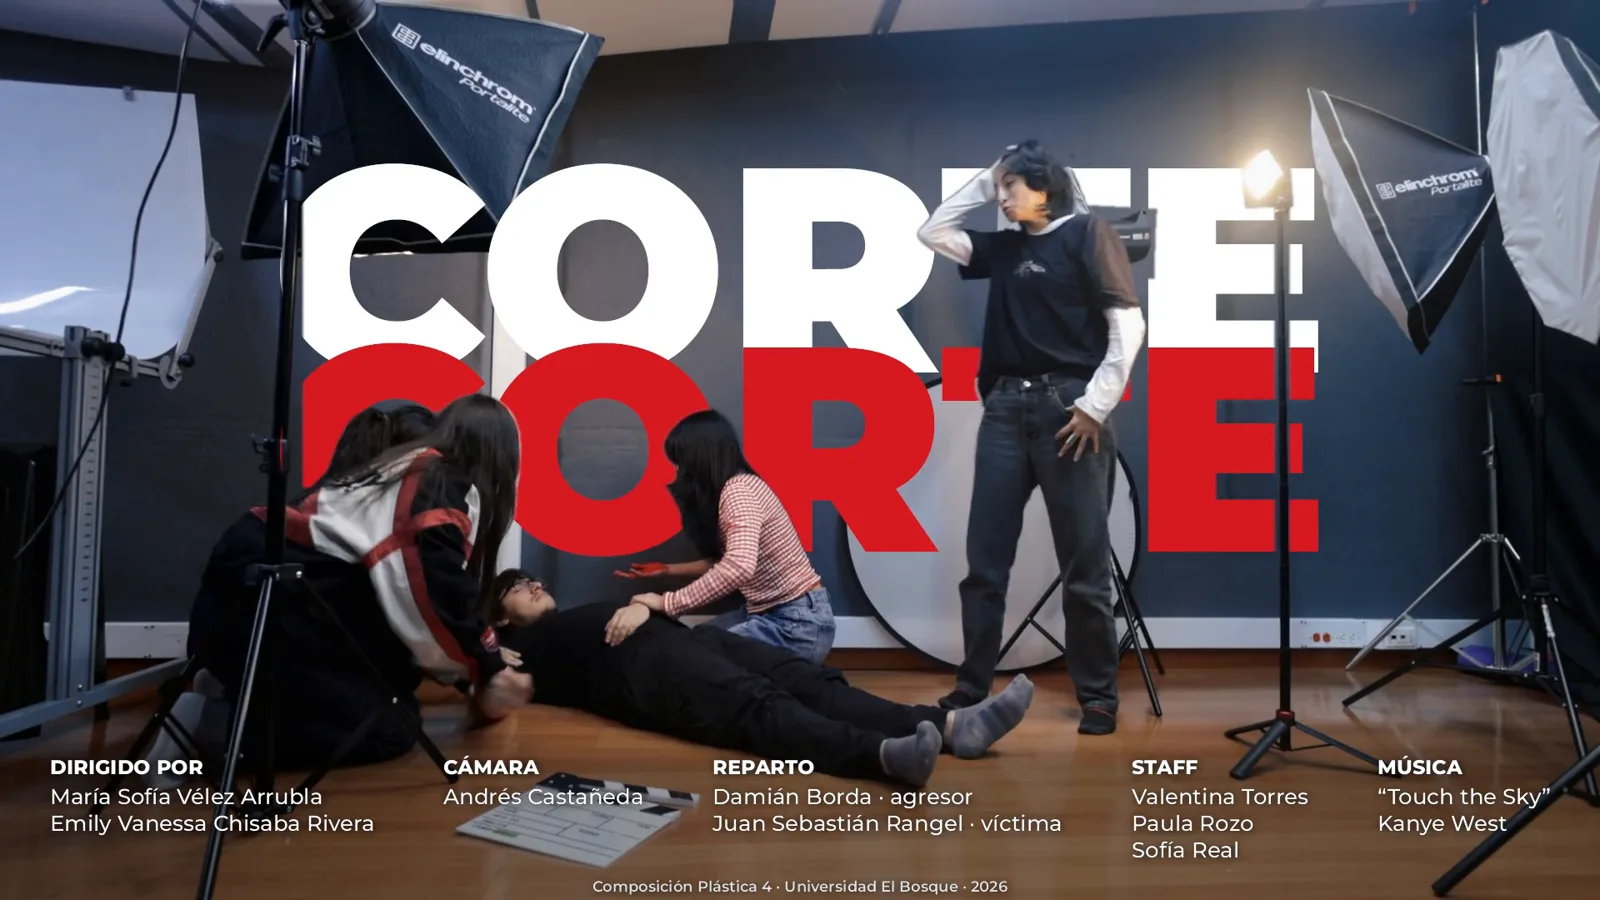
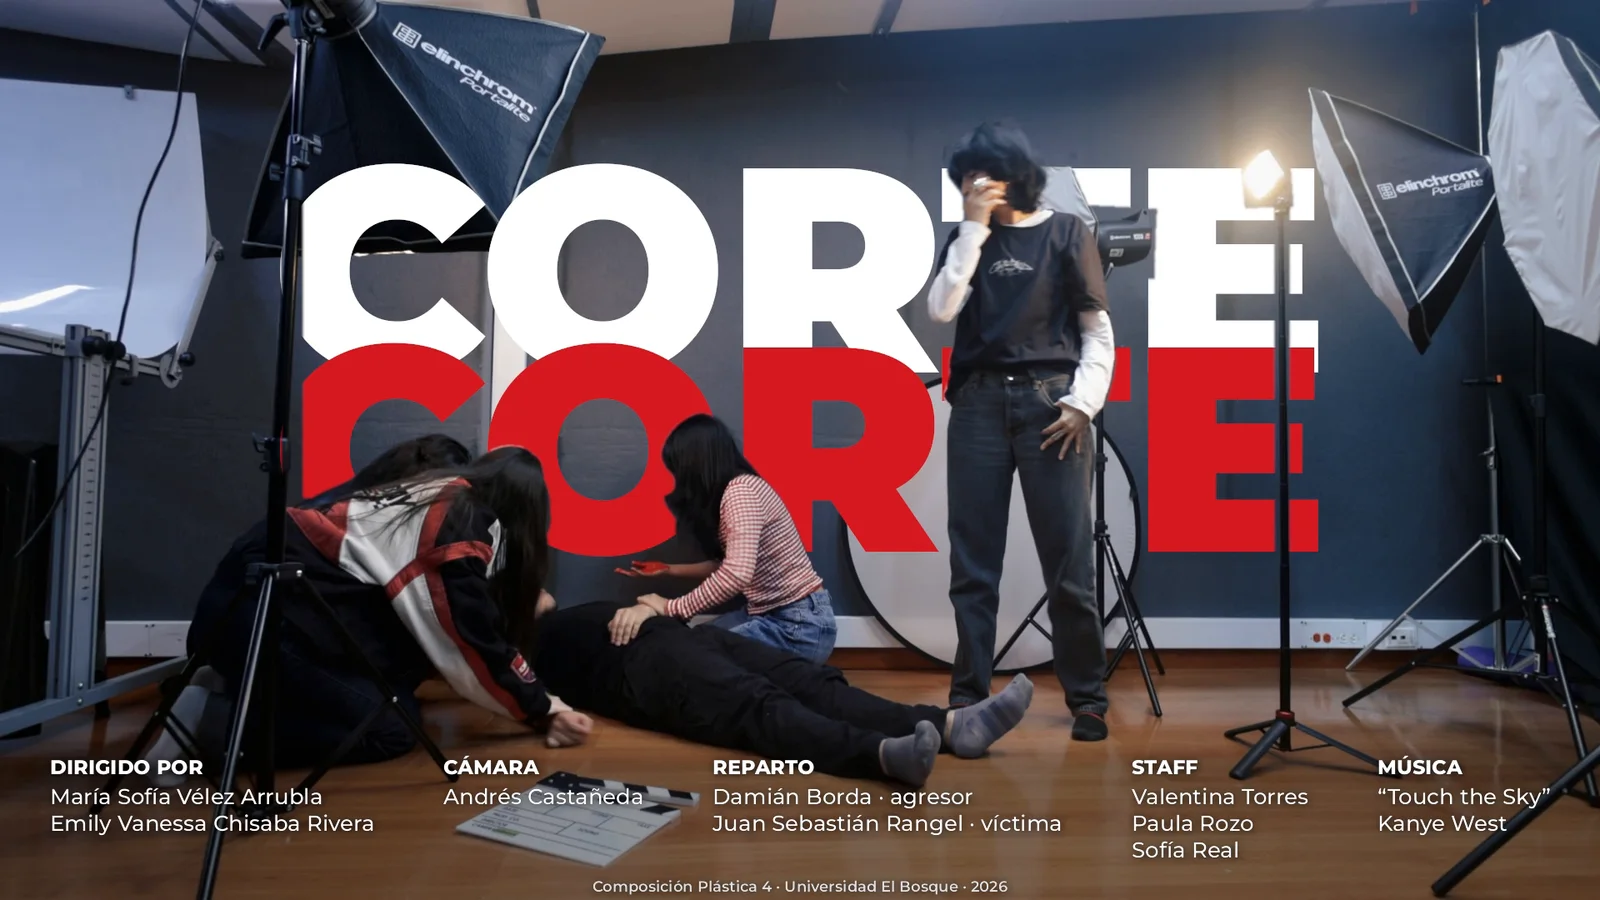
Créditos en cada proyecto y portada de Cut! en el segundo 11
Claude-Session: https://claude.ai/code/session_01RyYnNCt1wu5NE3TrN3pCe1

diff --git a/src/data/contenido.js b/src/data/contenido.js
@@ -131,6 +131,9 @@ export const OBRAS = [
     portada: M + "medea/busto.webp",
     tono: "#24103c",
     especial: "medea", // su página usa la sección con turntable y comparador
+    creditos: [
+      { rol: "Vestuario base", nombres: ["Generado con Hunyuan3D (Tencent)"] },
+    ],
     secciones: [{ tipo: "medea" }],
   },
   {
@@ -145,6 +148,10 @@ export const OBRAS = [
       "Vex es el protagonista de NEXO: un desarrollador de inteligencia artificial, brillante, obsesivo y ansioso. Es completamente gris y su look es pintado a mano, con sombras escalonadas y trama de semitono, en la línea de Spider-Verse. La ropa se generó con IA y después se adaptó al personaje.",
     portada: M + "vex/busto.webp",
     tono: "#141a33",
+    creditos: [
+      { rol: "Proyecto", nombres: ["NEXO, semillero Gráfica Dinámica, Universidad El Bosque"] },
+      { rol: "Ropa", nombres: ["Generada con IA"] },
+    ],
     secciones: [
       { tipo: "medea", personaje: "VEX" },
       { tipo: "galeria", titulo: "En Blender", imagenes: [M + "vex/rostro.webp", M + "vex/ropa.webp", M + "vex/captura_cuerpo.webp"] },
@@ -220,6 +227,11 @@ export const OBRAS = [
     portada: M + "tour/inicio.webp", // pantalla de inicio de la app (no la pieza gráfica)
     enlace: { texto: "Probar la app en la web", url: "https://madebylych.github.io/tour-usaquen/" },
     tono: "#3a1a08",
+    creditos: [
+      { rol: "Equipo", nombres: ["Juan David Montoya Gallego (Formación Musical)", "Juan David Neira Lopez (Formación Musical)", "Oscar Fabian Pachon Beltran (Formación Musical)", "Manuela Guerrero Alvarez (Arquitectura)"] },
+      { rol: "Fotos de los lugares", nombres: ["Wikimedia Commons (Felipe Restrepo Acosta y otros autores, licencias CC) y fotos de cada lugar, con su crédito dentro de la app"] },
+      { rol: "Música", nombres: ["Pistas libres de derechos de Pixabay, con su crédito dentro de la app"] },
+    ],
     secciones: [
       { tipo: "galeria", titulo: "La app", imagenes: [M + "tour/inicio.webp", M + "tour/ruta.webp", M + "tour/tour.webp"] },
       { tipo: "galeria", titulo: "Página de descarga", imagenes: [M + "tour/web.webp"] },
@@ -260,6 +272,14 @@ export const OBRAS = [
       "Una pelea en un set de grabación sale mal y la palabra corte significa dos cosas: la orden del director y la herida. Durante la pelea no se sabe que es una grabación; cuando el actor cae y alguien grita «¡Corte!», aparece el equipo de producción y se revela el set. Lo codirigí con María Sofía Vélez Arrubla.",
     portada: M + "cut/portada.webp",
     tono: "#2a0a10",
+    creditos: [
+      { rol: "Dirección", nombres: ["María Sofía Vélez Arrubla", "Emily Vanesa Chisaba Rivera"] },
+      { rol: "Cámara", nombres: ["Andrés Castañeda"] },
+      { rol: "Reparto", nombres: ["Damián Borda (agresor)", "Juan Sebastián Rangel (víctima)"] },
+      { rol: "Staff", nombres: ["Valentina Torres", "Paula Rozo", "Sofía Real"] },
+      { rol: "Música", nombres: ["“Touch the Sky”, Kanye West. Todos los derechos pertenecen a sus autores; uso académico."] },
+      { rol: "Curso", nombres: ["Composición Plástica 4, Universidad El Bosque, 2026"] },
+    ],
     secciones: [
       { tipo: "video", titulo: "El corto", src: M + "cut/corte.mp4", poster: M + "cut/poster_corte.webp" },
       {
@@ -267,7 +287,7 @@ export const OBRAS = [
         titulo: "Prueba del guion",
         src: M + "cut/previz.mp4",
         poster: M + "cut/poster_previz.webp",
-        pie: "Previz generada con IA para probar el guion antes de grabar. Las personas de este video no existen: las creó la IA.",
+        pie: "Prueba del guion hecha con IA a partir de fotos de mis compañeros, antes de grabar.",
       },
     ],
   },
@@ -282,6 +302,9 @@ export const OBRAS = [
     texto: "Del boceto en papel a la ilustración y su despliegue en piezas para redes y correo. No es un encargo de la marca.",
     portada: M + "cocacola/key.webp",
     tono: "#5a0f22",
+    creditos: [
+      { rol: "Marca", nombres: ["Coca-Cola pertenece a The Coca-Cola Company. Ejercicio académico, no es un encargo."] },
+    ],
     secciones: [
       {
         tipo: "deslizador",
@@ -305,6 +328,9 @@ export const OBRAS = [
       "Tres remakes de un póster existente de The Grand Budapest Hotel, hechos con fines académicos y de práctica. Cada versión cambia la paleta a partir de las escenas de la película y de su simbología: el mismo personaje y el mismo hotel cuentan algo distinto según el color.",
     portada: M + "lobbyboy/3.webp",
     tono: "#3a1424",
+    creditos: [
+      { rol: "Referencia", nombres: ["Póster original de The Grand Budapest Hotel, no es de mi autoría"] },
+    ],
     secciones: [
       { tipo: "galeria", titulo: "Tres versiones", imagenes: [M + "lobbyboy/1.webp", M + "lobbyboy/2.webp", M + "lobbyboy/3.webp"] },
       // el póster rosado NO es de Emily: se muestra solo como referencia, con su enlace
@@ -333,6 +359,9 @@ export const OBRAS = [
       "Tres exposiciones, tres lenguajes: la secuencia cinematográfica, el retrato que se disuelve y la línea hipnótica. Cada cartel parte de la obra del artista expuesto.",
     portada: M + "mambo/oraculo.webp",
     tono: "#1c1c26",
+    creditos: [
+      { rol: "Obras de referencia", nombres: ["Saír García", "Óscar Muñoz", "María Isabel Rueda"] },
+    ],
     secciones: [
       { tipo: "galeria", titulo: "Los carteles", imagenes: [M + "mambo/secuencias.webp", M + "mambo/infraleve.webp", M + "mambo/oraculo.webp"] },
       // fotos de las obras de los artistas expuestos: referencia, no son de Emily
@@ -373,6 +402,9 @@ export const OBRAS = [
     portada: M + "web/chrysos.webp",
     enlace: { texto: "Ver el sitio en vivo", url: "https://madebylych.github.io/Chrysos-Heirs/" },
     tono: "#2b1a3d",
+    creditos: [
+      { rol: "Arte de los personajes", nombres: ["HoYoverse, Honkai: Star Rail"] },
+    ],
     secciones: [{ tipo: "galeria", titulo: "El sitio", imagenes: [M + "web/chrysos.webp"] }],
   },
 ];

diff --git a/src/data/contenido-en.js b/src/data/contenido-en.js
@@ -116,7 +116,7 @@ const OBRAS_EN = {
       "A fight on a film set goes wrong and the word cut means two things: the director's order and the wound. During the fight you don't know it's a shoot; when the actor falls and someone yells “Cut!”, the crew rushes in and the set is revealed. I co-directed it with María Sofía Vélez Arrubla.",
     secciones: [
       { titulo: "The short" },
-      { titulo: "Script test", pie: "AI-generated previz to test the script before shooting. The people in this video do not exist: they were created by AI." },
+      { titulo: "Script test", pie: "Script test made with AI from photos of my classmates, before shooting." },
     ],
   },
   zenka: {
@@ -207,6 +207,41 @@ const OBRAS_EN = {
   },
 };
 
+const CREDITOS_EN = {
+  medea: [
+      { rol: "Base outfit", nombres: ["Generated with Hunyuan3D (Tencent)"] },
+  ],
+  vex: [
+      { rol: "Project", nombres: ["NEXO, Gráfica Dinámica research group, Universidad El Bosque"] },
+      { rol: "Clothing", nombres: ["Generated with AI"] },
+  ],
+  tour: [
+      { rol: "Team", nombres: ["Juan David Montoya Gallego (Music)", "Juan David Neira Lopez (Music)", "Oscar Fabian Pachon Beltran (Music)", "Manuela Guerrero Alvarez (Architecture)"] },
+      { rol: "Photos of the places", nombres: ["Wikimedia Commons (Felipe Restrepo Acosta and other authors, CC licenses) and photos from each place, credited inside the app"] },
+      { rol: "Music", nombres: ["Royalty-free tracks from Pixabay, credited inside the app"] },
+  ],
+  cut: [
+      { rol: "Direction", nombres: ["María Sofía Vélez Arrubla", "Emily Vanesa Chisaba Rivera"] },
+      { rol: "Camera", nombres: ["Andrés Castañeda"] },
+      { rol: "Cast", nombres: ["Damián Borda (aggressor)", "Juan Sebastián Rangel (victim)"] },
+      { rol: "Crew", nombres: ["Valentina Torres", "Paula Rozo", "Sofía Real"] },
+      { rol: "Music", nombres: ["“Touch the Sky”, Kanye West. All rights belong to their owners; academic use."] },
+      { rol: "Course", nombres: ["Composición Plástica 4, Universidad El Bosque, 2026"] },
+  ],
+  lobbyboy: [
+      { rol: "Reference", nombres: ["Original The Grand Budapest Hotel poster, not my work"] },
+  ],
+  mambo: [
+      { rol: "Reference works", nombres: ["Saír García", "Óscar Muñoz", "María Isabel Rueda"] },
+  ],
+  chrysos: [
+      { rol: "Character art", nombres: ["HoYoverse, Honkai: Star Rail"] },
+  ],
+  cocacola: [
+      { rol: "Brand", nombres: ["Coca-Cola belongs to The Coca-Cola Company. Academic exercise, not a commission."] },
+  ],
+};
+
 // mezcla los textos en inglés sobre la estructura en español (imágenes, orden, tipos de sección)
 export const OBRAS = ES.OBRAS.map((o) => {
   const t = OBRAS_EN[o.id] ?? {};
@@ -218,6 +253,7 @@ export const OBRAS = ES.OBRAS.map((o) => {
     etiqueta: t.etiqueta ?? o.etiqueta,
     rol: t.rol ?? o.rol,
     texto: t.texto ?? o.texto,
+    creditos: CREDITOS_EN[o.id] ?? o.creditos,
     enlace: o.enlace && { ...o.enlace, texto: t.enlace ?? o.enlace.texto },
     sprites: o.sprites?.map((sp, i) => ({ ...sp, titulo: t.sprites?.[i] ?? sp.titulo })),
     secciones: o.secciones.map((s, i) => {

diff --git a/src/pages/Proyecto.jsx b/src/pages/Proyecto.jsx
@@ -291,6 +291,22 @@ export default function Proyecto({ id }) {
         )
       )}
 
+      {o.creditos?.length > 0 && (
+        <section className="proyecto__creditos" aria-labelledby="sec-creditos">
+          <h2 id="sec-creditos" className="hud">{t.creditos}</h2>
+          <dl>
+            {o.creditos.map((c) => (
+              <div key={c.rol}>
+                <dt>{c.rol}</dt>
+                {c.nombres.map((n) => (
+                  <dd key={n}>{n}</dd>
+                ))}
+              </div>
+            ))}
+          </dl>
+        </section>
+      )}
+
       <a className="proyecto__siguiente" href={url(destinoSig)} onClick={(e) => alClicEnlace(e, destinoSig)} data-cursor="siguiente">
         <img className="proyecto__sig-fondo" src={siguiente.portada} alt="" loading="lazy" />
         <span className="proyecto__sig-velo" aria-hidden="true" />

diff --git a/src/pages/Proyecto.css b/src/pages/Proyecto.css
@@ -579,3 +579,37 @@
   border-radius: 6px;
   background: #000;
 }
+
+/* créditos: compañeros, obras y recursos ajenos */
+.proyecto__creditos {
+  max-width: 1440px;
+  margin: 0 auto;
+  padding: 4rem var(--margen) 6rem;
+  border-top: 1px solid var(--borde);
+}
+
+.proyecto__creditos h2 {
+  margin-bottom: 2rem;
+}
+
+.proyecto__creditos dl {
+  display: grid;
+  grid-template-columns: repeat(auto-fill, minmax(220px, 1fr));
+  gap: 2rem 3rem;
+}
+
+.proyecto__creditos dt {
+  margin-bottom: 0.5rem;
+  font-family: var(--f-mono);
+  font-size: 0.7rem;
+  letter-spacing: 0.14em;
+  text-transform: uppercase;
+  color: var(--violeta-claro);
+}
+
+.proyecto__creditos dd {
+  margin: 0 0 0.25rem;
+  color: var(--lavanda-tenue);
+  font-size: 0.95rem;
+  line-height: 1.5;
+}

diff --git a/src/data/textos.js b/src/data/textos.js
@@ -52,6 +52,7 @@ export const TEXTOS = {
       piezas: "piezas",
       grupos: { Todo: "Todo", Personajes: "Personajes", "Fan art": "Fan art", Estudios: "Estudios", Fotografía: "Fotografía" },
     },
+    creditos: "Créditos",
     proceso: {
       titulo: "En proceso",
       bajada: "Lo que estoy construyendo ahora, con la etapa en la que va.",
@@ -170,6 +171,7 @@ export const TEXTOS = {
       piezas: "pieces",
       grupos: { Todo: "All", Personajes: "Characters", "Fan art": "Fan art", Estudios: "Studies", Fotografía: "Photography" },
     },
+    creditos: "Credits",
     proceso: {
       titulo: "In progress",
       bajada: "What I'm building right now, and the stage it's at.",
